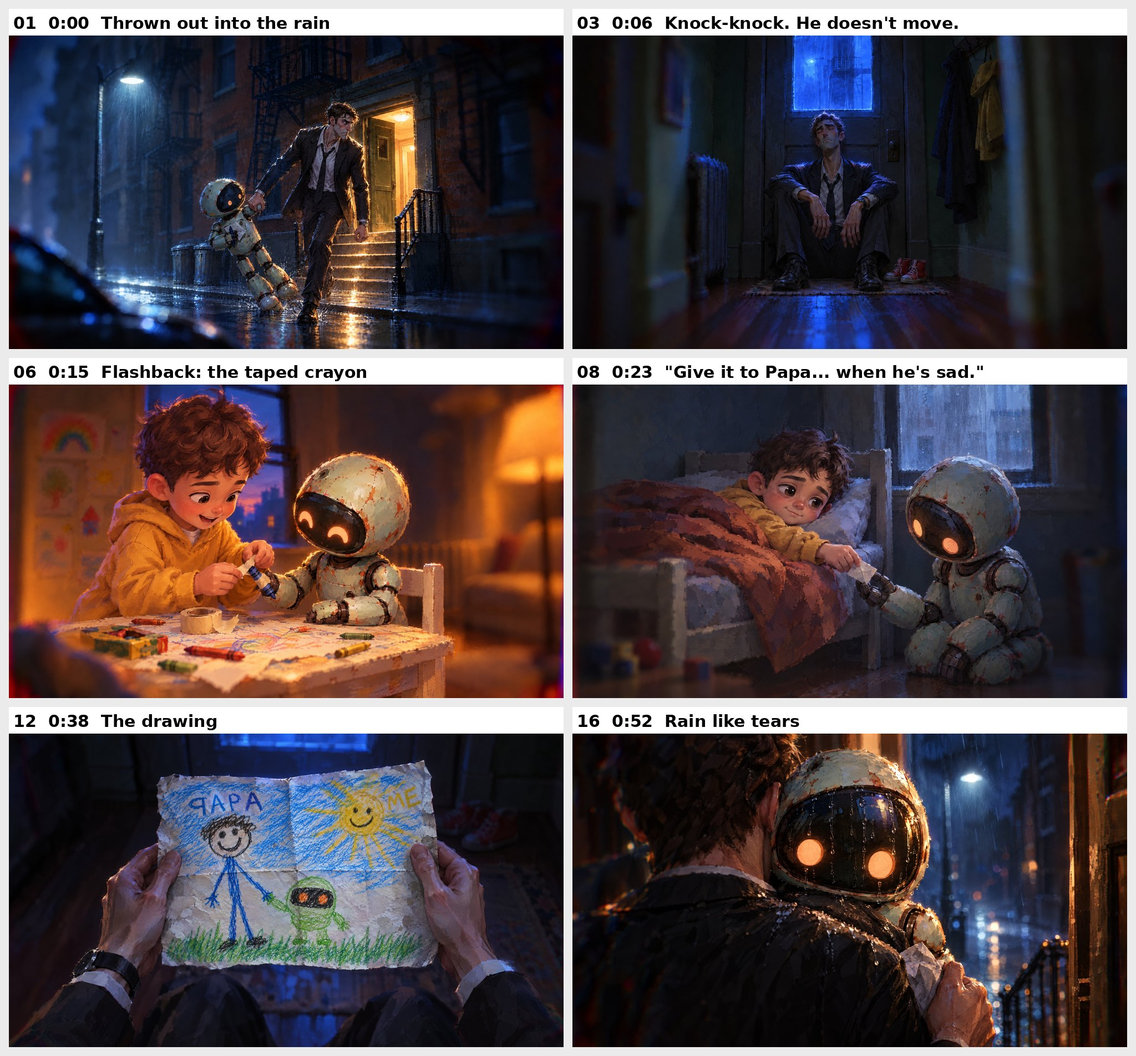
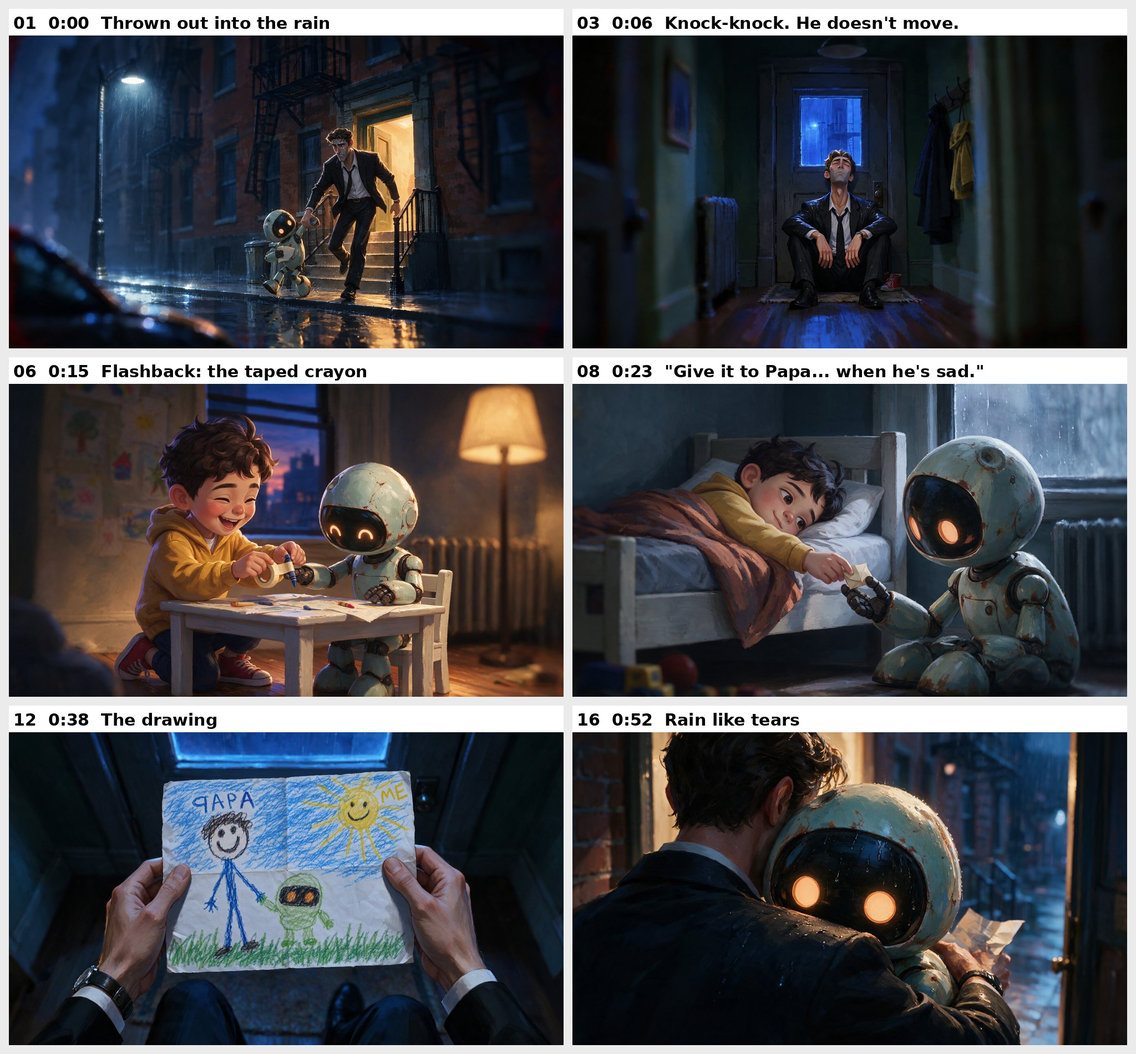
Blue Crayon: Seedream 5.0 Pro for final frames; six key stills redone
The user prefers Seedream 5.0 Pro for final frames. GPT Image 2.5 stays
for the character sheets and location plates, which Seedream uses as
references. Shots 01, 06 and 16 come from the model test; 03, 08 and 12
are new. The GPT versions move to assets/knock/gpt/, and BRIEF.md
records the split.

Claude-Session: https://claude.ai/code/session_01468trLT8GgTVFPGXDPjRF4

diff --git a/videos/blue-crayon/BRIEF.md b/videos/blue-crayon/BRIEF.md
@@ -187,7 +187,13 @@ Two layers keep this consistent:
    final frame and clip, with `--focus` set to the subject. This evens out shots where a
    video model has sharpened the edges again.
 
-All characters and plates are made with GPT Image 2.5. The characters are in
+**Models.** The character sheets and location plates are made with GPT Image 2.5. Final
+frames are made with **Seedream 5.0 Pro**, using those sheets and plates as references; it
+blends the characters into the painted light without GPT's blocky strokes. The six-model test
+is on `assets/boards/models_s01/s06/s16.jpg`. Both Nano Banana models refuse shots with the
+boy as a false positive.
+
+The characters are in
 `assets/painted/` and shown together on `assets/boards/cast_painted.jpg`:
 - **The boy:** `boy_gpt_a.jpg` (locked).
 - **Papa:** `papa_gpt_a.jpg` (locked), plus `papa_suit.jpg` for the present-day scenes.
